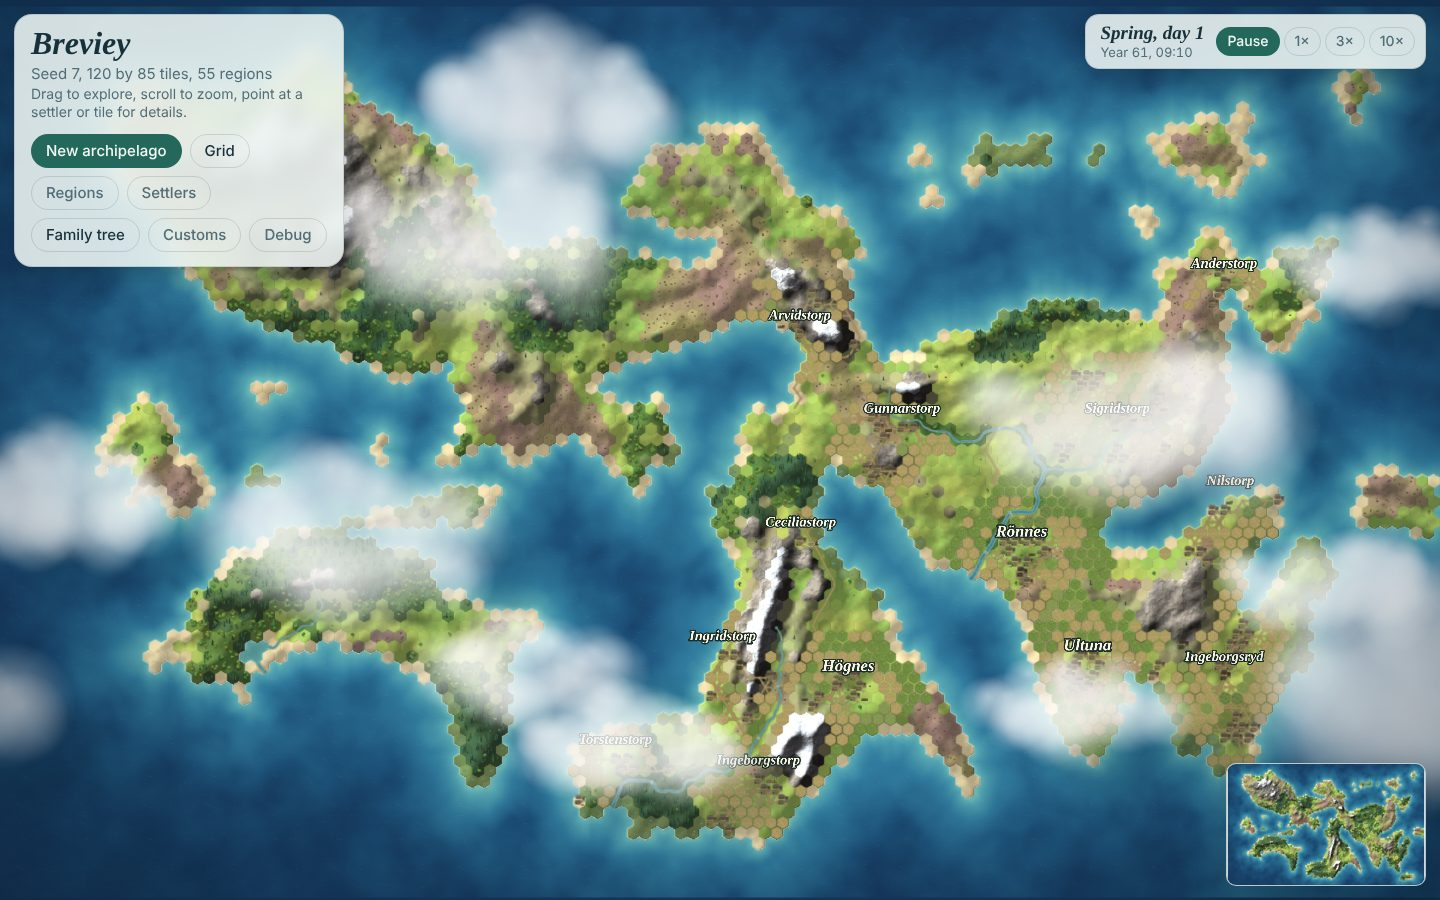
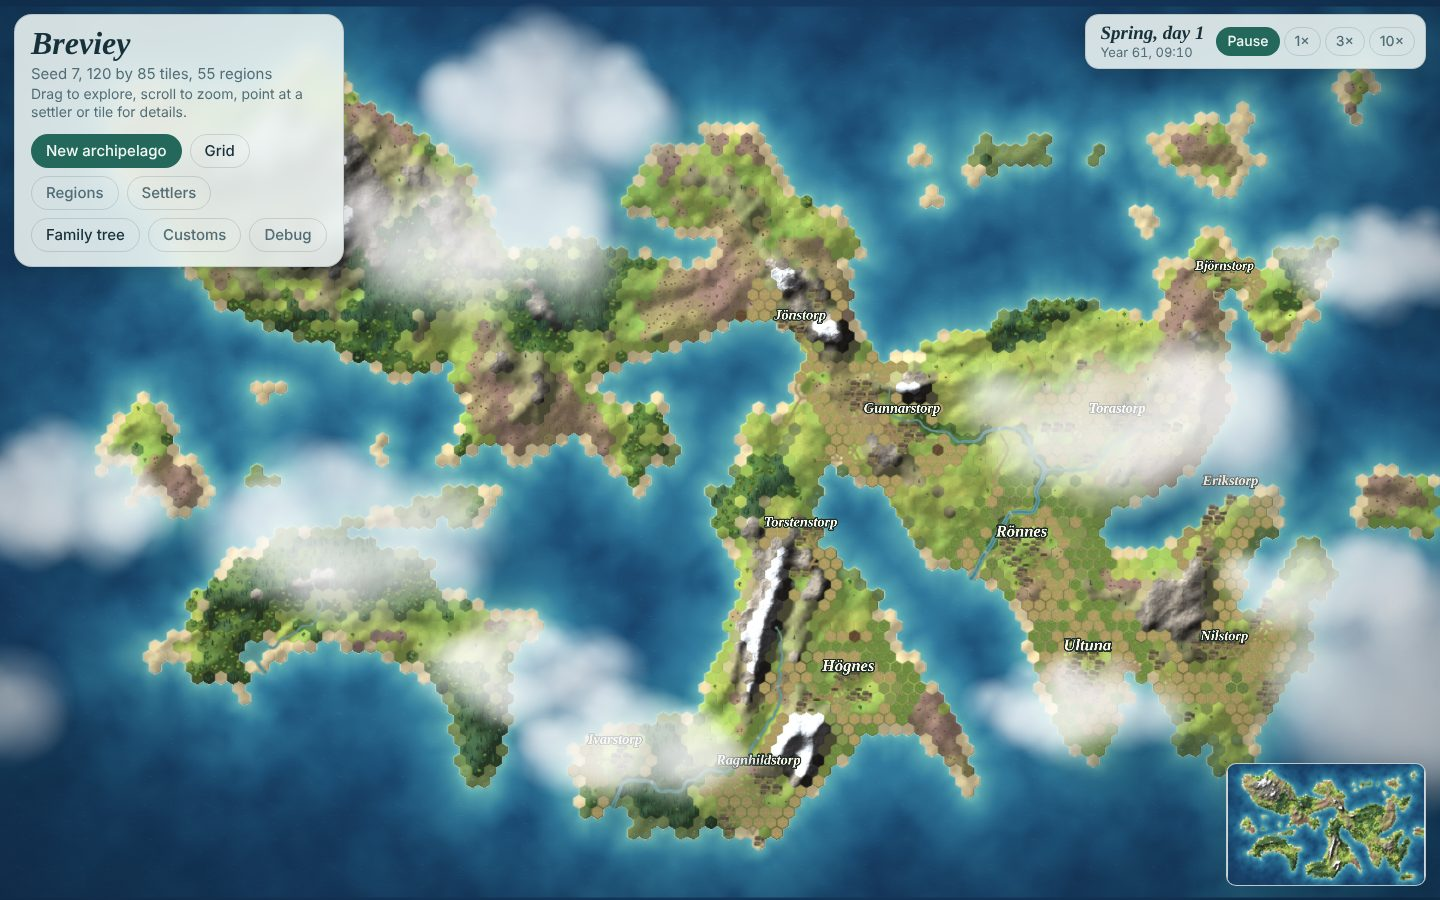
Stability review: results, figure and the tuned values for Kim
docs/review-stability.md: what was wrong (hunger the only brake; who the
households of one were: orphaned heirs, heiresses who could not marry,
lone settlers; farm labels; spacing; speed), Kim's decisions, what VB-151
to VB-154 built, and six long runs before and after: deaths from hunger
about 45% lower, households of one 6-9% (16-24% before), women marry 2-3
years later, no repeated names, the nearest village 13.7 steps away at
year 60 (8.0). Farms emptied by the orphan rule hold 3-6% of the land
until claims exist. The run outputs, the figure, the final screenshots,
and the tuned values as questions in QUESTIONS.md.

Claude-Session: https://claude.ai/code/session_01UXXp2ctr8THa7et3H8YvuT

diff --git a/docs/review-stability.md b/docs/review-stability.md
@@ -1,0 +1,155 @@
+# Review: long-term stability (hunger, households of one and marriage), names, spacing and speed
+
+1 November 2026. The cities review (`docs/review-cities.md`, section 3.5) found that the game's long runs are held in check by hunger, that households of one go hungry beside full barns, and that two holders cannot marry each other. Kim asked to address this, together with three smaller requests: simple speed-ups, fewer repeated village names, and villages that fill the land between them too slowly rather than too quickly. This review measures the problems at `65a81f9`, finds their causes, records Kim's decisions (section 3) and the work (VB-151 to VB-154, section 4), and measures the result (section 5). `design.md` is unchanged; what it should record, and the tuned values, are questions in `QUESTIONS.md` under "Stability review: the tuned values".
+
+Measurements are from `populous` on the small map at seeds 7 and 42 (60 years, 350–1,000 people) and on the tiny map at seeds 3, 7, 11 and 42 (80 years, 160–510 people), the sets of the cities review, sampled at the end of each game year and reported per decade. Single seeds are chaotic (a few people more or less change who marries whom and when famine strikes), so the means over the six runs are the result, with the per-run numbers beside them. The probes are in `docs/stability/` (appendix).
+
+## 1. The short answer
+
+| Measure (mean of six runs) | Before | After |
+| --- | --- | --- |
+| Deaths from hunger per 1,000 a year, mean over each run's decades | 1.23 (0.8–1.6 by run) | 0.68 (0.2–1.0 by run) |
+| Hungry days per household a year, years 30 / 60 / 80 | 1.9 / 2.9 / 4.3 | 0.6 / 2.2 / 3.6 |
+| Households of one, years 30–80 | 16–24% | 6–9% |
+| Women's mean age at first marriage | 19–20 | 21–22.5 |
+| Births per 1,000 a year | 42–45 | 38–46 (about 6% fewer) |
+| People, year 80 against year 10 | 2.23 times | 2.31 times |
+| Repeated names on the map, year 60 | 47 | 0 |
+| Steps to the nearest village, year 60 | 8.0 | 13.7 |
+| A late game day (CPU profile, tiny seed 11, year 60) | 7.0 s for 48 days | 6.3 s (−10%) |
+
+- **Hunger fell by about half,** without fewer people: the island carries as many or more and they starve less. Households of one are a third as common, and the means to marry now slows births when stores are short.
+- **The ceiling is not solved.** Deaths from hunger still rise in the last decades (1.4–1.9 per 1,000 in years 70–80): births stay near 40 per 1,000, almost every woman still marries, and grain still cannot move from the full barns to the empty ones. Section 6 names what comes next.
+- **Farms left empty** are the price of the orphan rule Kim chose: 11–28 farms over 60 years at tiny seeds 3 and 7, holding 3–6% of the farmable land, which nothing takes up until claiming an empty farm (VB-033) exists. That is why the land in use rose although villages lie farther apart (section 5.3).
+
+## 2. What was wrong
+
+### Hunger is the only brake
+
+Births stayed at 36–53 per 1,000 (40–49 in most decades), deaths at about 20–51, and almost every woman married young: women's mean age at first marriage was 19–21 in every decade, and 0 to 5 of 5–34 women aged 45–54 had never married (the north-west European pattern the design follows had 24–26 and 10–20%; Hajnal 1965). With nothing to slow births, the people grow until the land is full and hunger takes the excess: in the last decades deaths from hunger rose to 1–4 per 1,000 a year, and tiny seed 11 ended with deaths (51 per 1,000) above births (44).
+
+Where the hunger sits: stepping populous tiny seed 7 a day at a time from year 10 to 40 and classifying every hungry household-day after the meal, 93% were days with nothing to eat in store (neither grain above the seed nor sheaves to thresh), and 99% fell in summer and autumn, before the harvest. So hunger is a store that runs out before the harvest, in every size of household, not grain stuck in the barn.
+
+### Households of one
+
+| Run | Households of one (year 10 → end) | Hungry in their years | Lone holders of 20–49 (end) |
+| --- | --- | --- | --- |
+| small, seed 7 | 12% → 14% | 9–42% | 39 |
+| small, seed 42 | 17% → 22% | 15–58% | 39 |
+| tiny, seeds 3, 7, 11, 42 | 11–25% → 22–30% | 15–73% | 9–21 |
+
+Who they were, three kinds:
+- **Orphaned heirs.** When a holder died and the heir was a child, the guardian was looked for only among the adults of the house (`guardianOf`); with none, the child held the farm alone and mostly starved. At tiny seeds 3, 7 and 11 (years 20–40) one household-year of one in eight was a child under 18 (109 of 813). A child heir living elsewhere was even moved alone to a farm it inherited (`transfer`): at seed 3 one girl inherited three farms in a row this way, each emptying in turn.
+- **Heiresses and lone holders who could not marry.** At tiny seed 3, year 15, the 19 households of one were almost all women of 25–35 who had held a farm alone for 7–14 years in villages of 5–13 farms, with no unmarried landless adult within 15 steps: every unmarried man was himself first heir to a farm, and under the residence custom "with the land" two people who each have a place could not marry (`homeFor`).
+- **Lone settlers,** who left a crowded village alone (VB-146) and, for the same reason, rarely married.
+
+### Names
+
+The repeated names on the map were farm names, not village names. A village without a green (a lone farm, a settler's village, a hamlet that grew round them) was labelled by each of its farms; every new cottage was "Nybygget", "Nybygget 2"..., and lone farms took one of 8 words (Strand, Lunden, Backa, Myra, Ängen, Hagen, Berga, Åkern). Repeated labels grew from 0–7 at year 10 to 32–94 per run by year 60–80. Villages founded in play did get unique names (Erikstorp), but those never reached the map.
+
+### Spacing
+
+The nearest neighbouring village (mean over villages, hex steps between centres) was 11–22 steps away at year 10 and 7–9 by year 60–80. Settlers founded villages 10–30 steps from home with a house and fields as close as 3 steps to other farms, and three in four joined a small village, which grew into a hamlet of up to 4 farms in the gap.
+
+### Speed
+
+A game day cost 104 ms at 437 people and 446–460 ms at 1,005–1,034 (populous small, seed 7): faster than the people grew. A CPU profile of 8 days at year 55 (1,034 people): contact hours and talk 19%, the daily decay of every tie 15%, idle pawns seeking company 9%, garbage collection 8%, the culture's daily drift 6%, and the daily refresh of the route cache 5% (36,000 cached routes, each costed again every day). Ties per pawn grow with the village (mean 68, up to 187), which is why a day's cost grows faster than the people.
+
+## 3. Decisions (Kim, 1 November 2026)
+
+1. **Households of one:** an orphaned heir with no adult gets a guardian (a landless adult relative moves in; failing one, the children go to kin and the farm stands empty), and a holder who lives alone takes a servant; settlers need not leave in pairs.
+2. **Marriage:** two holders may marry (`QUESTIONS.md`, Towns question 5, as proposed), and marriage needs means; no later minimum ages.
+3. **Names:** VB-026's name generators, one label for a village of two or more farms, a founded village's farm named for its founder, lone-farm names unique on the island.
+4. **Spacing:** both: new villages farther apart, and more land for each new farm.
+
+## 4. What was built
+
+| Task | What | Golden file |
+| --- | --- | --- |
+| VB-151 | Refactor: the daily route refresh works out the changed tiles' coordinates once and skips a route's cost where the outcome is certain without it; the culture drift and the contact count reuse scratch arrays | unchanged |
+| VB-026 | Name generators (`src/sim/names.js`): farms by compass, landmark, owner, numbered only when all fail; each culture's order of preference (`namePrefs`); a lone farm's village bears its farm's island-unique name; a founded village's farm bears the founder's name; one map label for a village of two or more farms | names and texts only |
+| VB-152 | `src/sim/service.js`: a household left with no adult takes in the ward's nearest landless adult relative as guardian, or else the children go to kin and the farm stands empty; a holder who lives alone takes in an unmarried landless adult as servant, from a household that keeps two working hands | heirs runs |
+| VB-153 | Two people with a place may marry (4.1); the farm left behind passes to an heir who can keep it, a landless claimant of its village, or stands empty; a grown heir comes before a child when no adult is left to be guardian; a couple marries only with the means (4.2) | heirs runs |
+| VB-154 | New villages 5 steps from other farms (was 3) and 12 hex steps from every village centre; every new farm (plot, join, new village) needs room: 6 free farmable tiles within reach besides its first field | unchanged |
+
+Found and fixed on the way: a pawn married to a holder could be allotted a plot, and when its cottage was finished the couple moved in and the holder's own farm was left without its holder (`tests/invariants.js` caught it); `transfer` and `finishCottage` could take a child who held a farm away from it; service could take an adult whose plot was already being cleared.
+
+### 4.1 Where a couple lives
+
+Under "with the land" one of them needs a place: the farm they hold, or are first heir to. When both have one:
+- a holder keeps the farm, and a spouse who is only first heir elsewhere moves to it and leaves that line (an heir whose spouse holds another farm is passed over, as before);
+- of two holders, the couple lives where the *other* farm is best handed on: to an heir who can keep it (an adult, or a child with a grown housemate as guardian), then to a landless adult of its village who waits for land, then to a child or nobody; then on the farm with more fields, the man's on a tie;
+- of two first heirs, on the farm with more fields.
+
+A holder who marries away hands the farm on in that order (`handOn`); a claimant takes it as a claim (no shares owed on it), and a farm nobody takes stands empty, its grain and animals going with the holder. The first version handed the farm to the next heir whatever the age: at tiny seed 3 over 30 years that sent 15 farms to child brothers and sisters and emptied 17 for want of grown kin. With the order above and the grown heir first (`heirFor`), the final code empties 5 there for want of grown kin, against 78 marriages, 16 farms handed on at marriages, 47 servants and 2 guardians.
+
+### 4.2 The means to marry
+
+A chosen match goes ahead only when the household the couple will live in holds food (grain, rations, grain in sheaf, the larder) above its seed for `MARRIAGE.means` years of its members and one more; otherwise they wait a year, and the log says how many couples of a village put it off. This is Malthus's preventive check: in pre-industrial Europe marriages fell after dear harvests. Three versions were measured:
+
+| Version | Households of one, years 30–80 | Deaths from hunger per 1,000, years 30–80 | Births per 1,000 | Women's age at first marriage |
+| --- | --- | --- | --- | --- |
+| Before | 16–24% | 0.7–2.4 | 42–45 | 19–19.4 |
+| A year of food, every home (six runs) | 21–28% | 0.2–1.4 | 36–43 | 21–23 |
+| A year, homes of fewer than two adults exempt (six runs) | 9–15% | 0.1–2.4 | 43–46 | 19–21 |
+| 1.5 years, the same exemption, with VB-154 (final; six runs) | 6–9% | 0.2–1.9 | 38–46 | 21–22.5 |
+
+Applied to every home, the rule kept lone holders and new settlers single (lone holders at small seed 42: 39 → 92 at year 60): a lone farm rarely holds a year of food for two. Historically the check bore on young couples setting up on a full farm, not on a widower or a lone settler, who remarried quickly because a farm needed a pair; so a home with fewer than two adults is exempt. With the exemption, at a year, the check seldom bound: the moving round falls just after the harvest, when stores are at their highest. At a year and a half it binds on the full farms and leaves the lone alone. 1.5 is a tuned value, Proposed to Kim.
+
+## 5. Results
+
+![Means over the six runs, before and after, by decade: people, deaths from hunger, hungry days, households of one, women's age at first marriage, births, repeated names on the map and steps to the nearest village](img/stability-runs.png)
+
+### 5.1 Hunger, households and marriage
+
+Per run, at the end of the run (people; mean deaths from hunger per 1,000 over the decades; households of one; lone holders of 20–49):
+
+| Run | Before | After |
+| --- | --- | --- |
+| small, seed 7 (60 years) | 1,005; 0.8; 16%; 39 | 961; 0.2; 5%; 21 |
+| small, seed 42 (60 years) | 728; 1.2; 22%; 39 | 852; 0.7; 8%; 13 |
+| tiny, seed 3 (80 years) | 398; 1.4; 21%; 12 | 486; 0.7; 4%; 15 |
+| tiny, seed 7 | 396; 1.5; 24%; 9 | 385; 0.8; 5%; 15 |
+| tiny, seed 11 | 437; 1.6; 24%; 9 | 432; 0.7; 3%; 5 |
+| tiny, seed 42 | 350; 0.9; 28%; 21 | 336; 1.0; 11%; 11 |
+
+- **Deaths from hunger fell at five seeds of six** and were unchanged at the sixth (tiny 42, the island that collapsed in the cities review); hungry days per household fell in every decade.
+- **Households of one** fell from a fifth or a quarter of households to a twentieth or a tenth. Those that remain are as often hungry as before (in 21–53% of their years, against 24–54%); who they are now was not measured.
+- **Marriage** is later by two to three years for women, and births are about 6% fewer; almost every woman still marries.
+
+### 5.2 Names
+
+![The tiny map at seed 7 in year 61, before: every farm of a hamlet carries its own label, "Nybygget", "Nybygget 2"...](img/stability-island-before.jpg)
+
+![The same map and year after: one label a village, none repeated; settlers' villages take their founders' names](img/stability-island-after.jpg)
+
+No name repeats on the map in any run at any decade (32–94 repeats per run before by year 60–80). A village of 16 farms names every farm without a number (`tests/names.js`, populous medium).
+
+![The land round Rönnes in year 61, before](img/stability-ronnes-before.jpg)
+
+![The land round Rönnes in year 61, after](img/stability-ronnes-after.jpg)
+
+### 5.3 Spacing
+
+The nearest village lies 13.5–15.9 steps away in every decade after (14.5 falling to 7.9 before), and new villages keep a band of outland between them. But the farmable land in use rose (25.2% at year 60 against 21.1%), and the cause is not the new farms: at tiny seeds 3 and 7 in year 60, occupied farms hold the same share of the farmable land before and after (19.1% and 18.8%; 23.6% and 24.0%), with as many fields per farm (2.9–3.5 before, 3.4–3.6 after). The difference is farms standing empty: 1–3 before (0.2–0.4% of the land), 11–30 after (2.7–5.8%), nearly all "its heir is a child, with no grown kin to keep it". Before, such a child kept the farm alone and mostly starved, so it counted as occupied; now the child goes to kin and the farm stands empty, and nothing takes an empty farm up again until claims (VB-033) exist. A question for Kim (`QUESTIONS.md`).
+
+### 5.4 Speed
+
+Profiles of the same 48 days of both versions at tiny seed 11, year 60 (414 people): 7,014 ms before, 6,298 after; the route refresh 345 → 131 ms, the culture drift 403 → 355 ms. Behaviour unchanged (the golden file and a state hash agree). Tried and left out: pair keys below 2^30 for the contact map, within noise. The rest is the social model; VB-127 (familiarity from talk, at most 150 ties a pawn) is the change that removes most of it. The long runs' own ms per day are not comparable between versions: they ran four at a time with other work.
+
+## 6. What next
+
+- **Claims (VB-033)** are now the most useful next task: they would take up the farms the orphan rule leaves empty (3–6% of the land) and give the landless somewhere to go before the island is full.
+- **Moving the surplus.** Hunger at the ceiling is a store that runs out before the harvest while other households' grain rots (cities review, section 3.2); the fair of the cities review (Phase 1) is the outlet, and it must leave each farm its reserve.
+- **Late marriage and celibacy** should come from service (VB-090, the general rule by hands per field) and courting (VB-036): the means rule delays marriage, but almost every woman still marries.
+- **Speed:** VB-127.
+
+## Appendix: probes
+
+All in `docs/stability/`; none is part of the game or under test.
+
+- **The runs:** `node docs/stability/probe.js --scenario populous --seed S --map small|tiny --years 60|80 > FILE` (with `--repo DIR` to run another checkout's `src`); one line per decade. The outputs of this review are in `docs/stability/runs/before` (at `65a81f9`) and `docs/stability/runs/after` (at `488090e`). About 10–40 minutes a run.
+- **Tables and the figure:** `python3 docs/stability/analyse.py docs/stability/runs/before docs/stability/runs/after --labels before after --fig docs/img/stability-runs.png` (matplotlib; colours from the reference palette of the charting guidance, validated for colour-blind readers).
+- **The rules at work:** `node docs/stability/events.js . 3 30 tiny` counts the log lines of the new rules over a run (marriages, couples who put it off, hand-ons, claims, servants, guardians, farms emptied).
+- **Screenshots:** `node docs/stability/shots.js --html index.html --tag after --seed 7 --size t --years 60 --out DIR --fx 4146.5 --fy 2212` (Playwright, as `docs/cities/shots.js`; the before images from `65a81f9`'s `index.html`).
+- **Scratch diagnoses** (not kept): hungry household-days classified by what was in store, one-person households by age and how they came to be alone, land held by occupied and empty farms, and farms emptied by reason, each from a day-by-day run of the same scenarios.

diff --git a/QUESTIONS.md b/QUESTIONS.md
@@ -48,6 +48,16 @@ The review (`docs/review-cities.md`) names eight bases of a town; the game has t
 8. The outside world. **P:** ships, the Church and the Crown as actors with fixed rules: ships call in summer at the best shore site with prices set per decade; the Church comes at about 300 people, takes a tenth of the grain and builds a church; the Crown taxes each farm, charters towns and frees masters who serve it from tax (*frälse*).
 9. Scenarios. **P:** first "No land left" (a full island, buildable now: it shows the ceiling and the two problems above), then "The fair meadow" with Phase 1; the other five (`docs/review-cities.md`, section 6) as their phases are built.
 
+### Stability review: the tuned values (raised 1 November 2026)
+The stability review (`docs/review-stability.md`) built Kim's decisions of 1 November in VB-151 to VB-154; the values below are in the code as Proposed. Numbers are means over six long runs (populous small, seeds 7 and 42, 60 years; tiny, seeds 3, 7, 11 and 42, 80 years), before and after.
+1. The means to marry. At a year of food the check seldom bound (the moving round falls just after the harvest); at a year and a half, with homes of fewer than two adults exempt, deaths from hunger fell by about 45% against the baseline and women marry 2–3 years later, while households of one fell from 16–24% to 6–9%. **P:** keep `MARRIAGE.means` 1.5 and the exemption.
+2. Service for the lone. **P:** keep `SERVICE` (unmarried adults of 18 to 50, from a household that keeps 2 working hands, from the holder's village or one within 15 steps); VB-090 adds the general rule by hands per field later.
+3. Farms left empty by the orphan rule. With no landless relative to be guardian, the children go to kin and the farm stands empty (as decided): 11–30 farms over 60 years at tiny seeds 3 and 7, holding 3–6% of the farmable land, against 1–3 before. Nothing takes them up until claims exist, so the land in use rose (25% at year 60 against 21%) although villages lie farther apart. **P:** raise VB-033 (claiming an empty farm) to priority 1; until then, a farm emptied this way goes to the landless adult of its village who has waited longest, as a farm left by a holder who marries away does (VB-153).
+4. Spacing. The nearest village is 13.5–15.9 steps away in every decade (falling from 14.5 to 7.9 before). **P:** keep `SETTLE.apart` 5, `SETTLE.centreApart` 12 and `FIELDS.room` 6.
+5. Late marriage. Almost every woman still marries. **P:** nothing more now; service in other households (VB-090) and courting (VB-036) are where the north-west European pattern of late marriage and celibacy should come from.
+6. The design. **P:** record in `design.md` at the next design pass: one map label for a village of two or more farms, and a lone farm's village named for its farm; two people with a place may marry, and the farm left behind is handed on; the means to marry; a guardian for an orphaned heir and a servant for a lone holder; the spacing of new villages and the room of a new farm.
+7. Speed. **P:** raise VB-127 (familiarity from talk, at most 150 ties a pawn) to priority 1: the social model is most of a late game day, and ties per pawn grow with the village.
+
 ### VB-023: sowing a hoed field before the next (raised by the nightly run of 30 October; gathered in the review of 31 October)
 The rule is built (no `plow` job while another field is hoed and its seed is in the house), but it does not bring in a crop in year 2 at seeds 7 and 11: a lone bachelor sows his first field only on spring day 4–7, after water, wood and cooking, so the stooks are lost to frost on summer day 11, and crops in year 3 fall from 3 to 0–1.
 1. What should give? **P:** lower the assertion, since the lone bachelor of the founders scenario is a harsh case: at least 1 crop in years 1–3 taken together at each of seeds 3, 7, 11 and 42 (the run reports them per year); and sow before wood and water for any household with a hoed field and seed in the house (a one-line priority change in `ROLES`), as it is the one chore with a closing date.

diff --git a/backlog/VB-154.md b/backlog/VB-154.md
@@ -14,4 +14,4 @@ Acceptance criteria:
 - [x] The golden file is unchanged: no farm in the 3-year founders and heirs runs is sited where the new rules bite.
 Notes / questions:
 - Kim, 2026-11-01 (stability review): both: villages farther apart when expanding, and more land for a household.
-- Measured in `docs/review-stability.md`.
+- Measured in `docs/review-stability.md`, section 5.3 (six long runs): the nearest village 13.5–15.9 steps away in every decade, against 14.5 falling to 7.9 before. The farmable land in use rose (25.2% at year 60 against 21.1%), but not from new farms: occupied farms hold the same share and as many fields as before; farms left empty by the orphan rule (VB-152) hold 3–6% of the land until claims (VB-033) take them up. A question for Kim in `QUESTIONS.md`.
